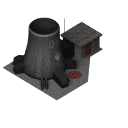
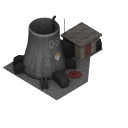
- Update some graphics - Minor fixes

diff --git a/css/units.css b/css/units.css
@@ -118,12 +118,6 @@
     z-index: 150000;
 }
 
-.building.smallPower .graphic{
-    width:128px;
-    height:128px;
-    background-image: url('../img/smallPower.png');
-}
-
 .building .default {background-position: 0 -1024px}
 .building .top {background-position: 0 -256px}
 .building .right {background-position: 0 0;}
@@ -137,3 +131,22 @@
 .building .bottomright {background-position: 0 -896px;}
 .building .bottomLeft,
 .building .bottomleft {background-position: 0 -640px;}
+
+
+.building.smallPower .graphic{
+    width:128px;
+    height:128px;
+    background-image: url('../img/smallPower.png');
+}
+
+.building.factory .graphic{
+    width:128px;
+    height:128px;
+    background-image: url('../img/factory.png');
+}
+
+.building.constructionSite .graphic{
+    width:128px;
+    height:128px;
+    background-image: url('../img/constructionSite.png');
+}

diff --git a/js/buildQueue.js b/js/buildQueue.js
@@ -148,6 +148,8 @@ OBJECTS.buildQueue = function(){
     
     /**
      * Create the RTSitem, find native position, add to the motor
+     * TODO : try to find a better solution than + 55 for the unit to appear
+     * TODO : put the team start position if we don't find the construction site
      * @param {string} elementName
      * @param {team} team  
      */
@@ -155,7 +157,7 @@ OBJECTS.buildQueue = function(){
     	
     	var elementName = queueObject.elementName;
     	var team = queueObject.team;    	
-    	var nativePosition = {x: 0, y: 0};
+    	var nativePosition = {x: 25, y: 25}; // default position if we can't find the construction site 
     	
     	if(queueObject.vars.constructionSite){ // the item is construct in a particular building 
     		// try to get the building

diff --git a/js/init.js b/js/init.js
@@ -61,9 +61,11 @@
     RTS.motor.units.addUnit(new OBJECTS.unit(120,120,team1,'heavyTank'));
     RTS.motor.units.addUnit(new OBJECTS.unit(200,80,team1,'artilleryTank'));
 
-    RTS.motor.buildings.addBuilding(new OBJECTS.building(256,308,team1,'smallPower'));
+    RTS.motor.buildings.addBuilding(new OBJECTS.building(128,208,team1,'constructionSite'));
     RTS.motor.buildings.addBuilding(new OBJECTS.building(128,308,team1,'smallPower'));
-    RTS.motor.buildings.getItemById(1).primary = true;
+    RTS.motor.buildings.addBuilding(new OBJECTS.building(256,308,team1,'factory'));
+    
+    //RTS.motor.buildings.getItemById(1).primary = true;
 
 
     RTS.motor.units.addUnit(new OBJECTS.unit(840,350,team2,'tank'));

diff --git a/js/unitType.js b/js/unitType.js
@@ -25,7 +25,7 @@ RULES.unit = {
      * TANKS
      */
 	tank: {
-		sType: 'infantry',
+		sType: 'vehicule',
 		price: 500,
 		life: 500,
 		turret: true,
@@ -34,7 +34,7 @@ RULES.unit = {
 		imageClass: 'tank',
 		weapon: ['90mm'],
 		movement: 'tank',
-		constructionSite: 'smallPower',
+		constructionSite: 'factory',
 		requiredType: ['factory']
 	},
 

diff --git a/js/buildingType.js b/js/buildingType.js
@@ -74,6 +74,7 @@ RULES.building = {
 		sight: 2, // view up to x nodes
 		imageClass: 'factory',
 		weapon: [],
+		footprint: [[1,0],[0,-1],[1,-1]], // ground foot print , determine wich node is occupied by the building
 		requiredType: ['power','refinery']
 	},
 
